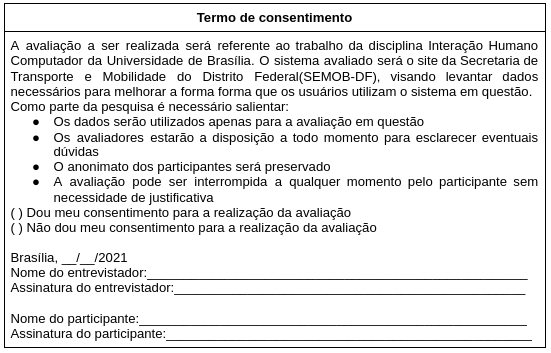
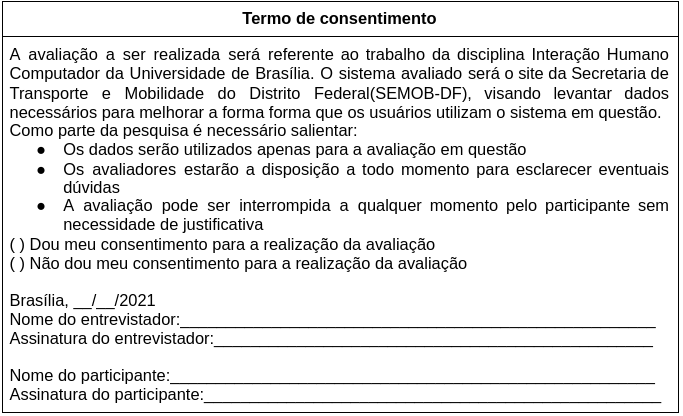
Correções no termo de consentimento e  preparação

diff --git a/docs/pages/planejamentoPrototipoPapel.md b/docs/pages/planejamentoPrototipoPapel.md
@@ -28,7 +28,7 @@ Tabela 1 - Fonte: Livro Interação Humano-Computador e Experiência do usuário
 
 ### 2.1. Preparação
 <div style="text-align: justify">Durante a atividade de preparação deve ser apresentado o material de apoio e os protótipos em papel, sendo esses sem detalhes que não forem relevantes.</div>
-<div style="text-align: justify"> Em nosso trabalho será utilizado o software <i>balsamiq</i> na realização dos protótipos de baixa fidelidade.</div>
+<div style="text-align: justify"> Em nosso trabalho será utilizado o software <i>balsamiq</i> e protótipos desenhados a mão na realização dos protótipos de baixa fidelidade.</div>
 
 #### 2.1.1 Termo de consentimento
 <img src="images/termoDeConsentimento.png"><br>

diff --git a/docs/_sidebar.md b/docs/_sidebar.md
@@ -16,11 +16,11 @@
 - [**Design, Avaliação e Desenvolvimento**](#)
 	- *Nível 1*
 		- [**Análise de Tarefas**](#)
-			- [Planejamento](pages/planejamentoAnaliseTarefas)
-			- [Relato](pages/relatoAnalisedeTarefas.md)
+			- [Planejamento da avaliação](pages/planejamentoAnaliseTarefas)
+			- [Relato dos Resultados](pages/relatoAnalisedeTarefas.md)
 		- [**Storyboard**](#)
 			- [Planejamento da avaliação](pages/planejamento_da_avaliacao_storyboard.md)
 			- [Storyboard](pages/storyboard.md)
 			- [Relato dos Resultados](pages/Resultados_Storyboard.md)
 	- *Nível 2*
-		- [Planejamento](pages/planejamentoPrototipoPapel.md)
+		- [Planejamento da avaliação](pages/planejamentoPrototipoPapel.md)
